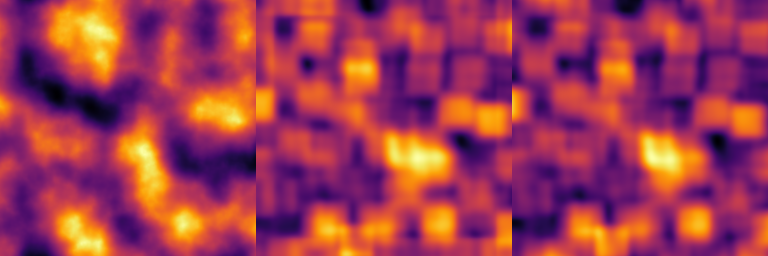
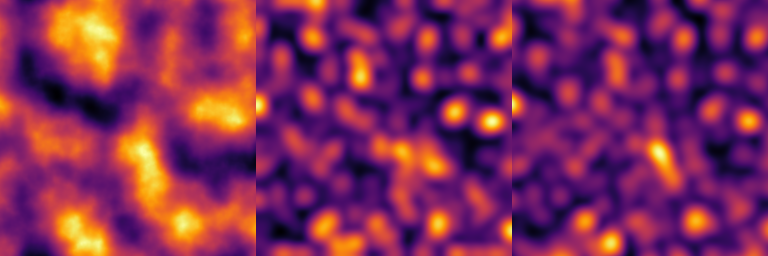
Use Gaussian averaging for std local

diff --git a/HighMap/src/features/features_gpu.cpp b/HighMap/src/features/features_gpu.cpp
@@ -82,13 +82,15 @@ Array rugosity(const Array &z, int ir, bool convex)
 
 Array std_local(const Array &array, int ir)
 {
-  Array mean = gpu::mean_local(array, ir);
+  // NB - use Gaussian windowing instead of a real arithmetic averaging
+  Array mean = array;
+  gpu::smooth_cpulse(mean, ir);
 
   // use mean to store (array - mean)^2
   mean -= array;
   mean *= mean;
-
-  Array std = sqrt(gpu::mean_local(mean, ir));
+  gpu::smooth_cpulse(mean, ir);
+  Array std = sqrt(mean);
 
   return std;
 }
@@ -96,7 +98,6 @@ Array std_local(const Array &array, int ir)
 Array z_score(const Array &array, int ir)
 {
   // NB - use Gaussian windowing instead of a real arithmetic averaging
-
   Array mean = array;
   gpu::smooth_cpulse(mean, ir);
 

diff --git a/HighMap/src/features/features.cpp b/HighMap/src/features/features.cpp
@@ -101,13 +101,15 @@ Array rugosity(const Array &z, int ir, bool convex)
 
 Array std_local(const Array &array, int ir)
 {
-  Array mean = mean_local(array, ir);
+  // NB - use Gaussian windowing instead of a real arithmetic averaging
+  Array mean = array;
+  smooth_cpulse(mean, ir);
 
   // use mean to store (array - mean)^2
   mean -= array;
   mean *= mean;
-
-  Array std = sqrt(mean_local(mean, ir));
+  smooth_cpulse(mean, ir);
+  Array std = sqrt(mean);
 
   return std;
 }
@@ -128,7 +130,6 @@ Array valley_width(const Array &z, int ir, bool ridge_select)
 Array z_score(const Array &array, int ir)
 {
   // NB - use Gaussian windowing instead of a real arithmetic averaging
-
   Array mean = array;
   smooth_cpulse(mean, ir);
 
